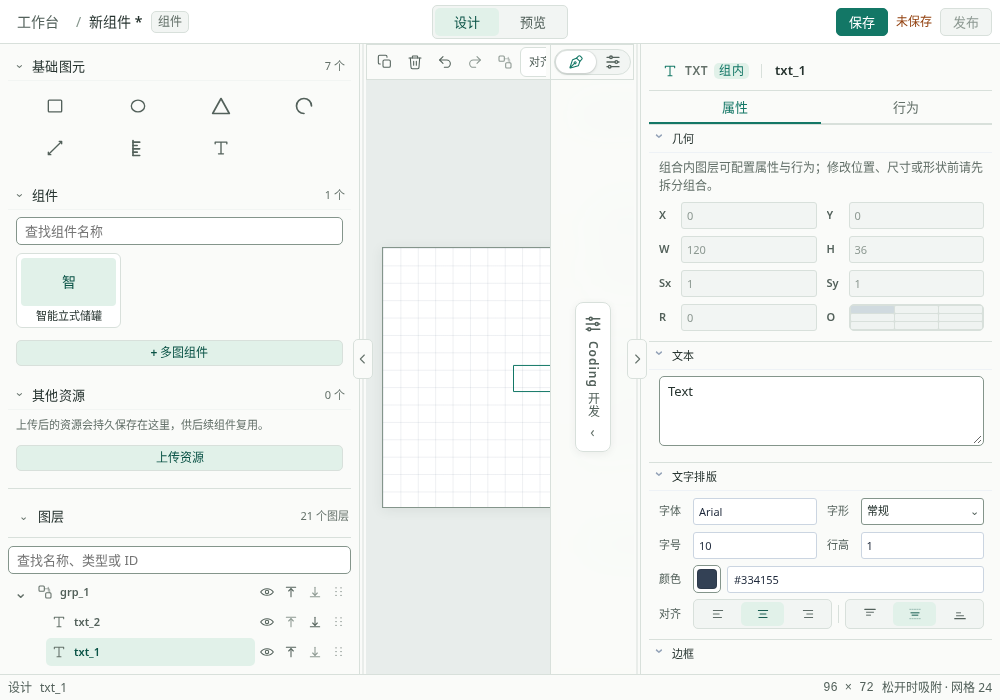
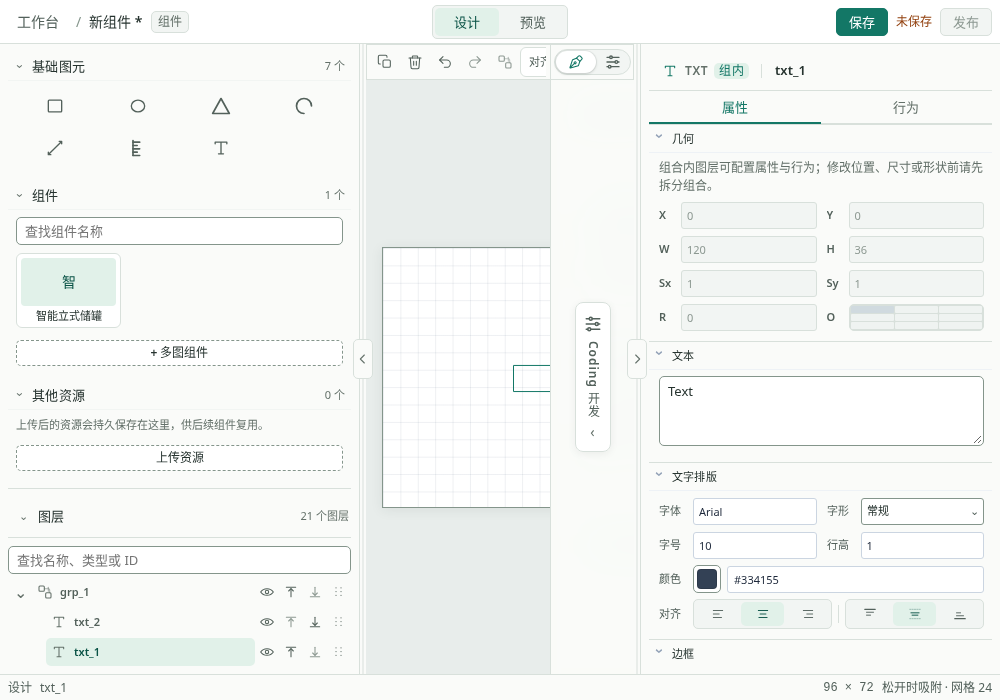
polish(component): palette import actions return to neutral dashed tier
Follow-up to review iteration: unifying + 多图组件 / 上传资源 into
soft-accent made the palette bottom two full-width accent blocks that
compete with the content above — accent everywhere means accent nowhere.

The action-nature rule now decides the style:

- inline list-add actions (contract/attribute/anchor/function) keep
  variant="soft" — they add a row to the list being edited
- file-picker import actions keep the neutral dashed style — dashed is
  the established ingest/drop-zone affordance; accent appears on hover

The typography unification is kept: both import buttons now render at
the shared small-button metrics (12px/600) instead of the old 11px/500,
so the dashed tier reads as intentional rather than weak.

Changed region(s): [[0.0, 0.63, 0.341, 0.69], [0.0, 0.48, 0.341, 0.54]]

diff --git a/src/features/component-library/ComponentAuthoringPalette.tsx b/src/features/component-library/ComponentAuthoringPalette.tsx
@@ -844,7 +844,7 @@ export function ComponentAuthoringPalette({
 
               <Button
                 size="small"
-                variant="soft"
+                variant="secondary"
                 className="component-palette-bottom-action"
                 disabled={readOnly || busy}
                 title="添加多图组件"
@@ -930,7 +930,7 @@ export function ComponentAuthoringPalette({
 
               <Button
                 size="small"
-                variant="soft"
+                variant="secondary"
                 className="component-palette-bottom-action"
                 disabled={readOnly || busy}
                 title="上传资源"

diff --git a/src/features/component-library/component-visual-palette.css b/src/features/component-library/component-visual-palette.css
@@ -81,9 +81,18 @@
   text-align: center;
 }
 
+/* Import actions (file-picker driven) stay neutral dashed: accent marks
+ * inline list-add actions, dashed marks content ingest into the library.
+ * Button metrics (12px/600/26px) still come from the shared small button. */
 .component-palette-bottom-action {
   width: 100%;
   margin-top: 4px;
+  border-style: dashed;
+}
+
+.component-palette-bottom-action:hover:not(:disabled) {
+  border-color: var(--ui-color-accent);
+  color: var(--ui-color-accent);
 }
 
 .component-palette-disclosure-body {
